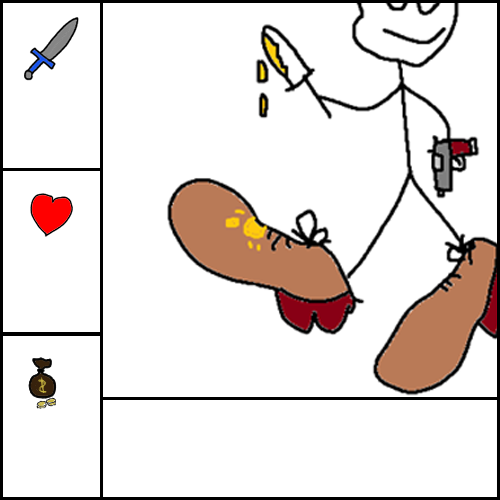
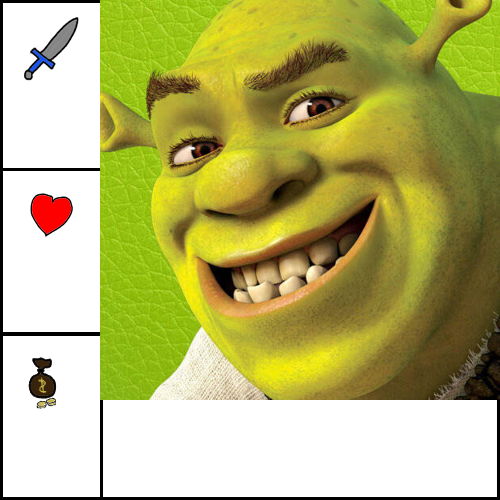
Unit Generator :100:
En ny class, der kan generere en hel liste af units baseret på en txt fil og en cardgenerator. Skulle gøre det noget nemmere for os at lave mange kort. Rimelig epic

diff --git a/.idea/OskarCardGenerator.py b/.idea/OskarCardGenerator.py
@@ -13,10 +13,11 @@ class cardGenerator (unit):
         self.nameBar = Image.open('icons\mameBar.png')
         self.icon = Image.open('icons\character.png')
         self.attackPower = 10
-    def createCard(self, unit):
+    def createCard(self, unit, fileNumber):
         self.icon = unit.getIcon()
         self.attackPower = unit.getAttackPower()
         self.name = unit.getName()
+        fileName = 'characterCard'+str(fileNumber)+'.png'
 
         image1 = self.statsBar.resize((100, 500))
         image2 = self.icon.resize((400, 400))
@@ -54,7 +55,8 @@ class cardGenerator (unit):
         d.text((300, 420), unit.getName(), font=fnt, fill=(0, 0, 0, 255))
 
         out = Image.alpha_composite(base, txt)
-
+        out.save('cards/'+fileName, 'PNG')
+        fileName = 'characterCard' + str(fileNumber) + '.png'
         out.show()
 
 
@@ -64,7 +66,7 @@ class cardGenerator (unit):
     def debug(self):
         print(self.attackPower)
 
-testUnit = unit(20, 200, Image.open('icons\character.png'), 'Epic Gamer')
+testUnit = unit(20, 200000000, Image.open('icons\character03.png'), 'Epic Gamer')
 
 cardGen = cardGenerator()
-cardGen.createCard(testUnit)
+cardGen.createCard(testUnit, 0)

diff --git a/.idea/OskarUnitGenerator.py b/.idea/OskarUnitGenerator.py
@@ -1,0 +1,32 @@
+from PIL import Image, ImageDraw, ImageFont
+from Unit import unit
+from OskarCardGenerator import cardGenerator
+
+class unitGenerator():
+
+    unitList = open('unitList.txt', 'r')
+
+    def __init__(self):
+        self.unitList = open('unitList.txt', 'r')
+
+    def genUnits(self, cardGenerator, unitList):
+
+
+        for x, line in enumerate(unitList, 1):
+            fileNumber = x
+            split = line.split(", ")
+            newUnit = unit(split[0], split[1], Image.open(split[2]), split[3])
+            cardGen.createCard(newUnit, x)
+
+            print (line)
+            print(split[2])
+
+    
+
+newUnitList = open('unitList.txt', 'r')
+testUnitGen = unitGenerator()
+cardGen = cardGenerator()
+
+
+
+testUnitGen.genUnits(cardGen, newUnitList)
